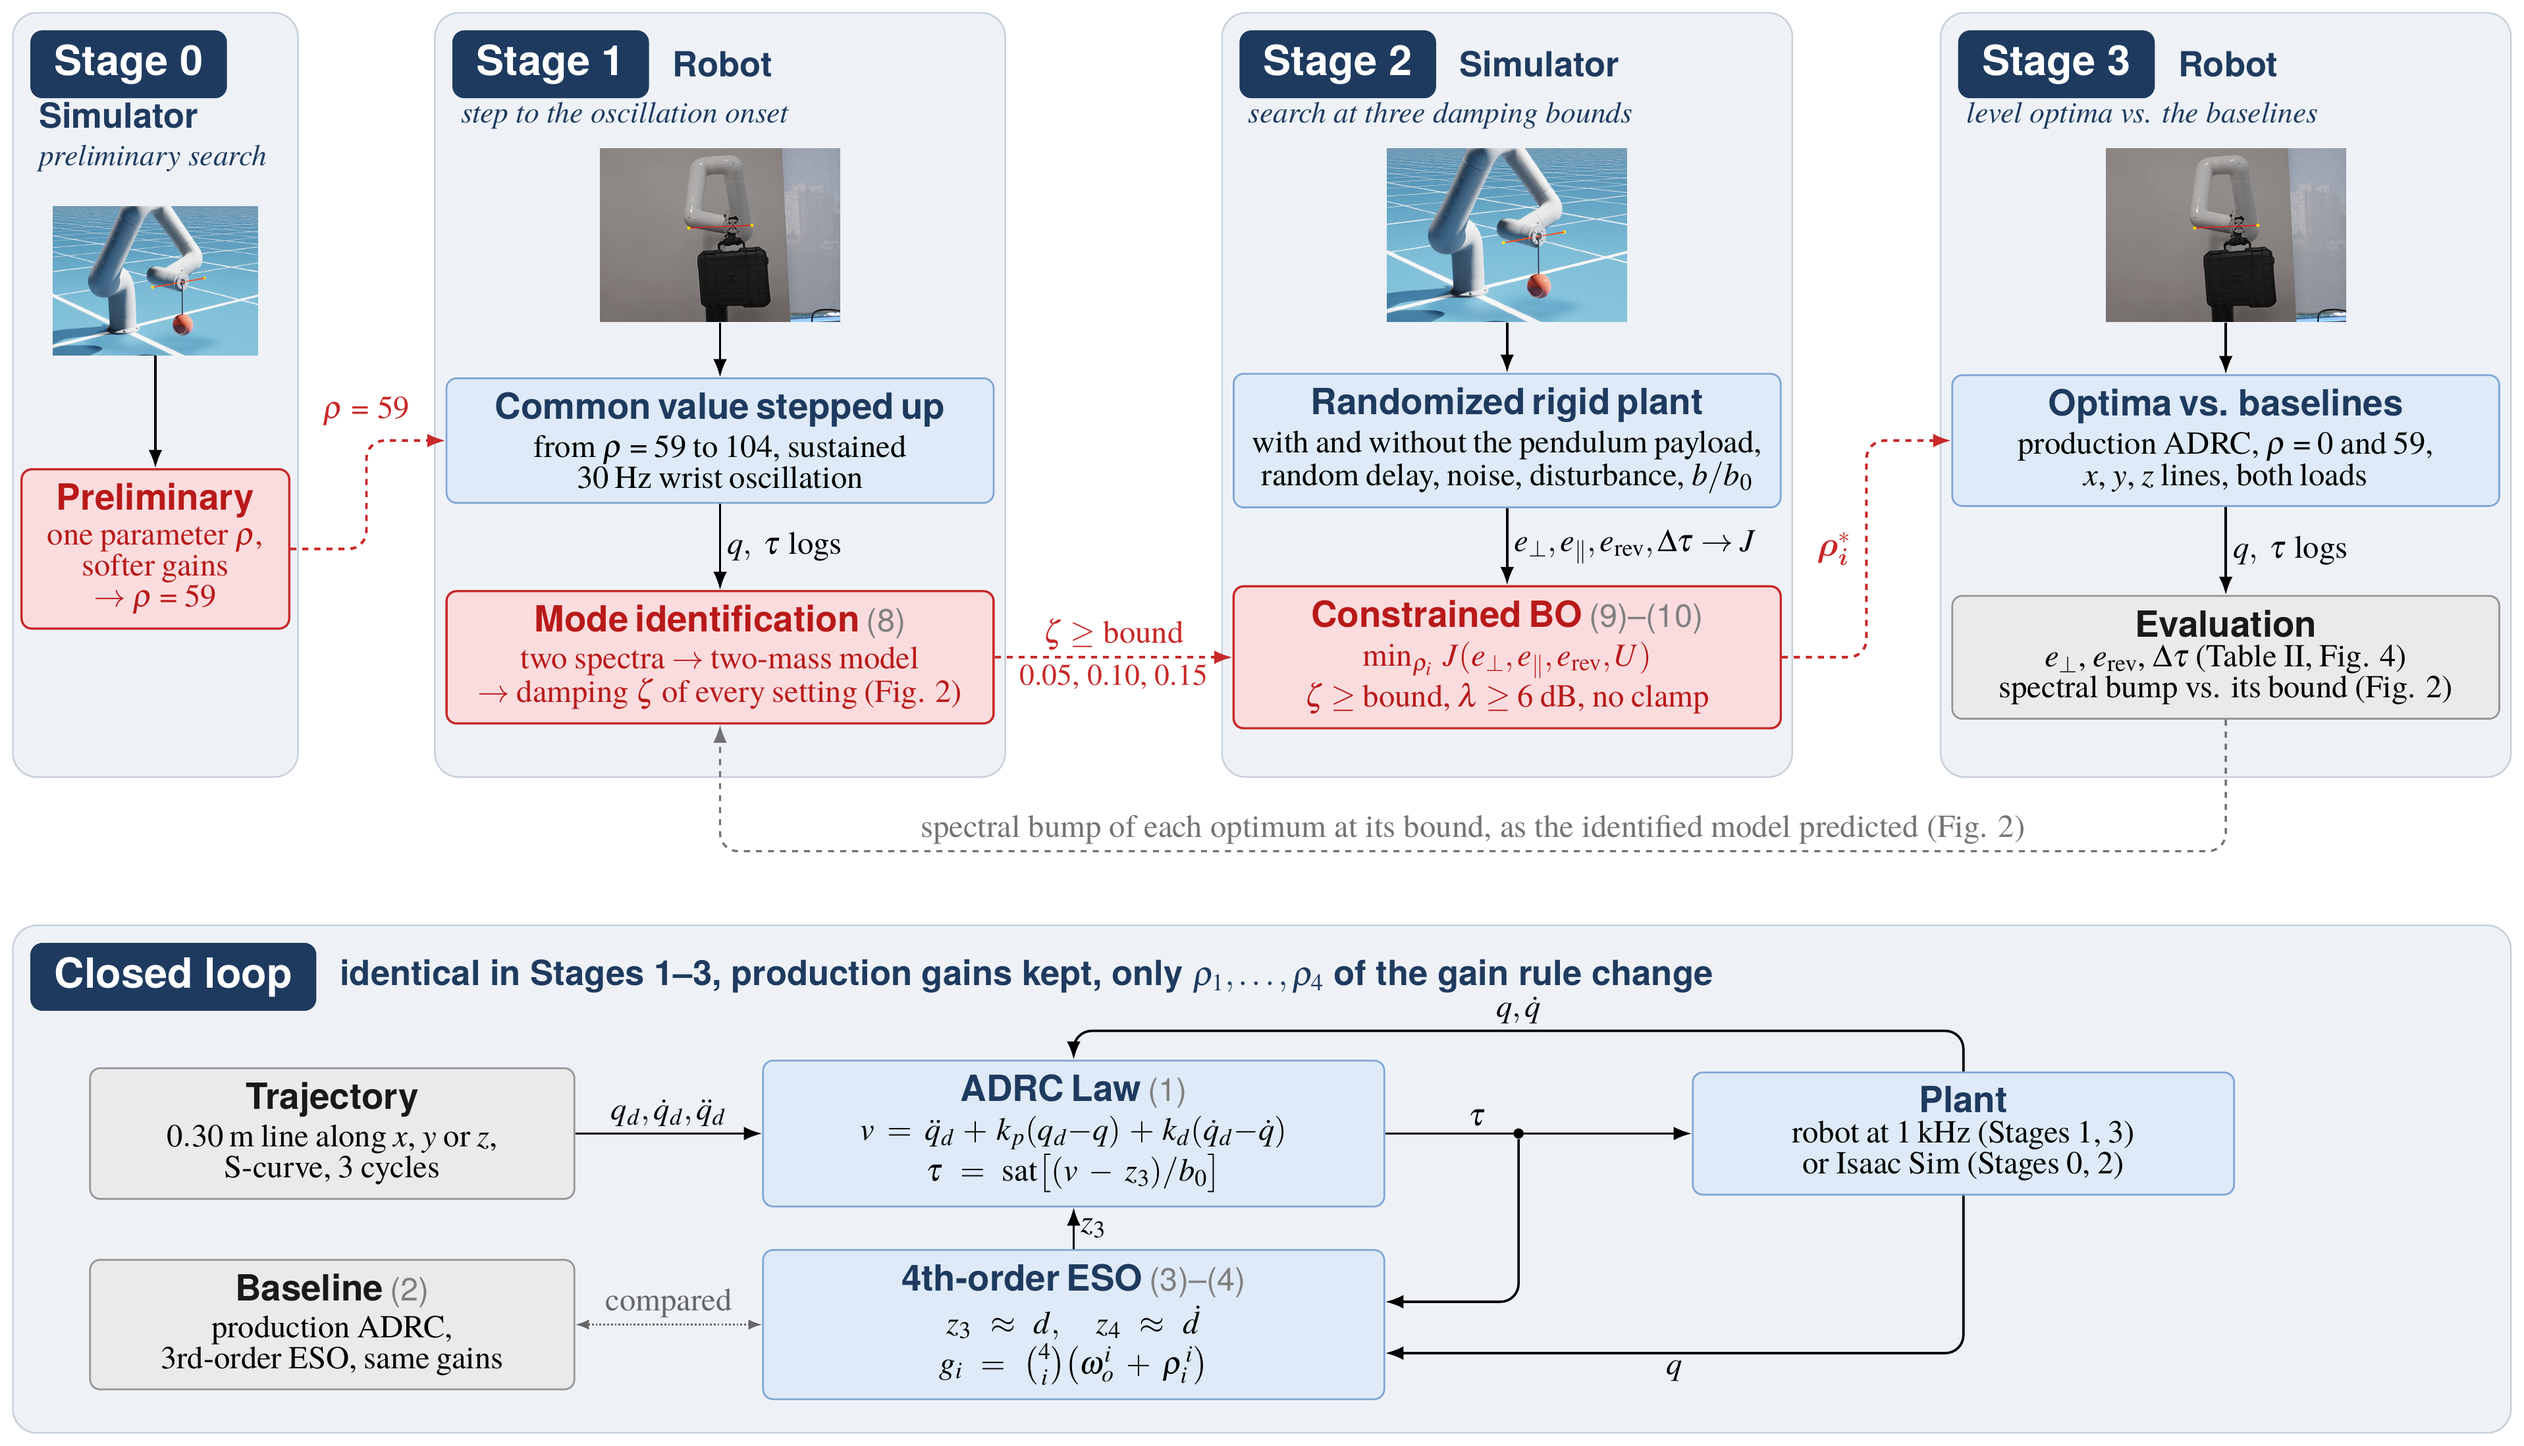
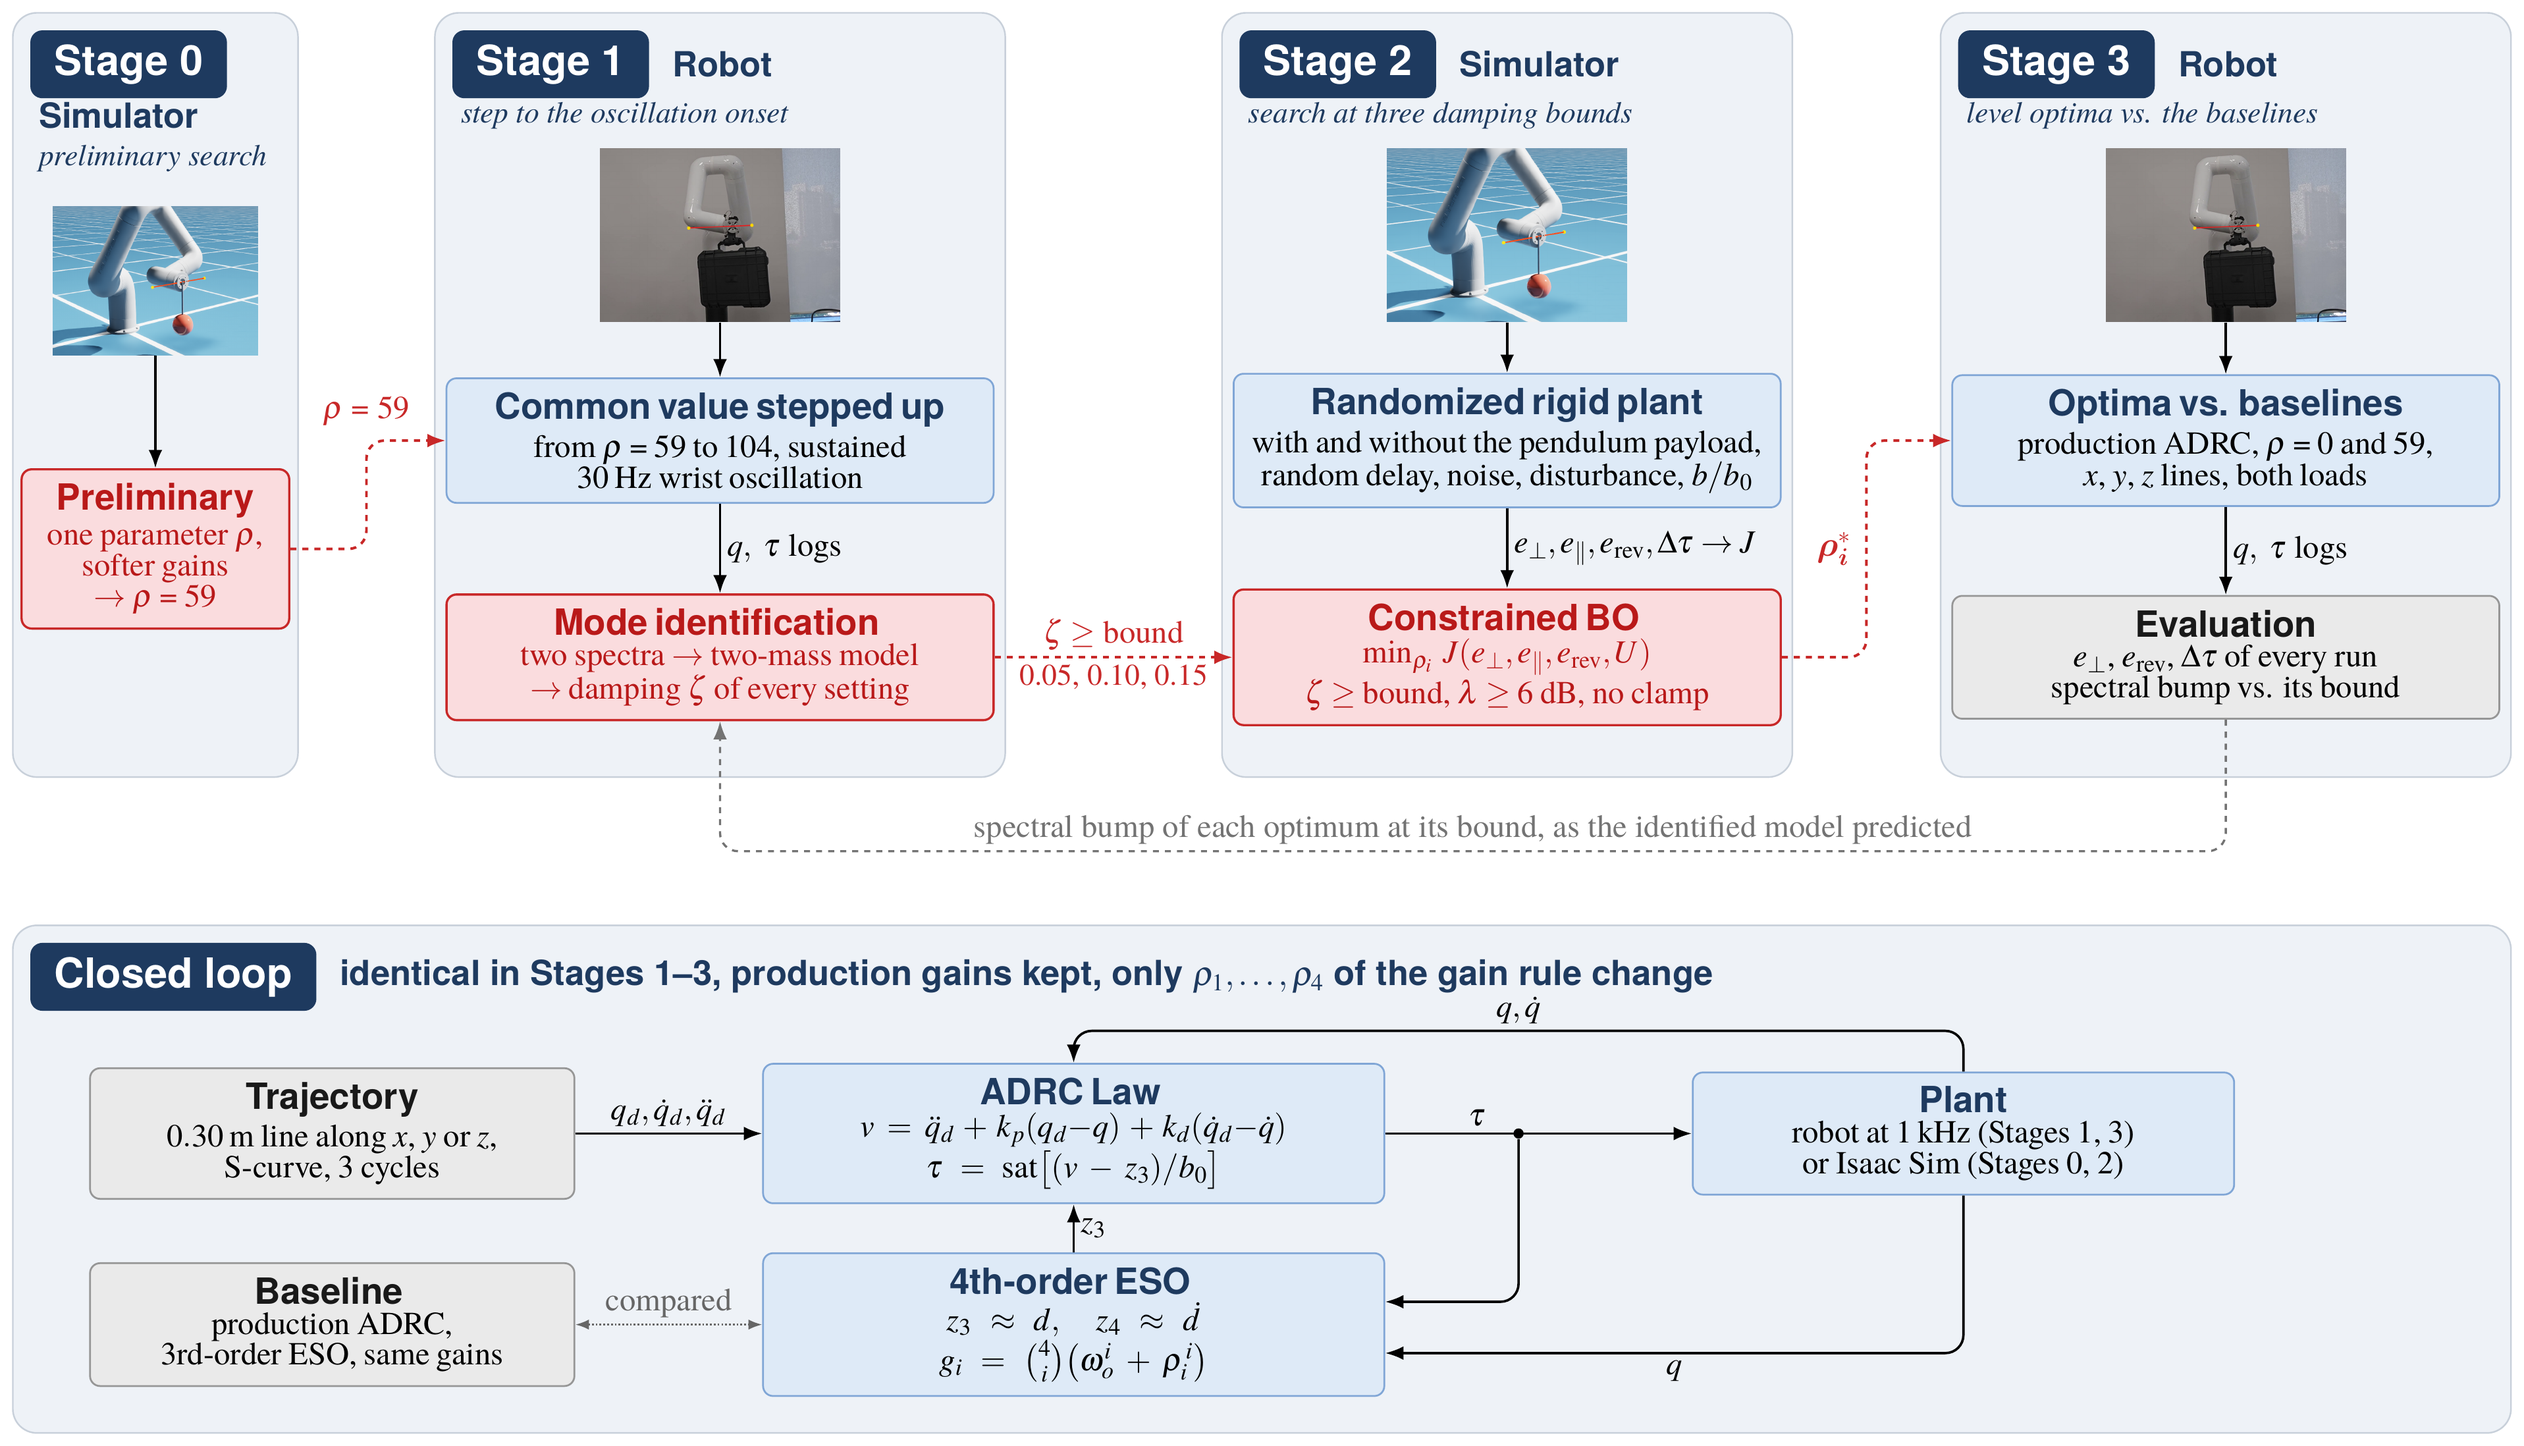
Method figure without equation numbers, the video variant of Fig. 1

diff --git a/index.html b/index.html
@@ -56,7 +56,7 @@
     <section class="page-width section-space" id="method" aria-labelledby="method-title">
       <h2 id="method-title">Method</h2>
       <figure class="method-figure">
-        <img src="assets/fig1_pipeline.png?v=20261113" alt="Study design in four stages. A preliminary simulator search gives the nominal common value, the robot steps it up to the onset of wrist oscillation and fits a two-mass loop model, constrained Bayesian optimization searches at three levels of the damping bound in the simulator, and the optimum of each level runs on the robot against the production ADRC, the binomial observer and the nominal value. The same closed loop with the production gains runs in every stage.">
+        <img src="assets/fig1_pipeline.png?v=20261113b" alt="Study design in four stages. A preliminary simulator search gives the nominal common value, the robot steps it up to the onset of wrist oscillation and fits a two-mass loop model, constrained Bayesian optimization searches at three levels of the damping bound in the simulator, and the optimum of each level runs on the robot against the production ADRC, the binomial observer and the nominal value. The same closed loop with the production gains runs in every stage.">
       </figure>
       <p class="method-overview">Simulator to robot to simulator to robot. <strong>Stage 0.</strong> A preliminary one-parameter search in the simulator with softer gains gave the nominal common value, ρ = 59. <strong>Stage 1.</strong> The common value is stepped up on the Indy7 with the production gains to the onset of sustained wrist oscillation, at ρ = 104, 1.8 times the nominal value, the wrist oscillates at 30 Hz. The joint-5 torque spectra of the nominal and the oscillating run fit a two-mass loop model of the compliant wrist, whose damping is carried to the simulator as the bound of the search. <strong>Stage 2.</strong> Constrained Bayesian optimization tunes the four parameters on a randomized simulated manipulator, with and without the 4.5 kg pendulum payload, under a torque-demand constraint, among the settings whose predicted wrist damping is at least the bound, at three levels of the bound, 0.15, 0.10 and 0.05. <strong>Stage 3.</strong> The optimum of each level runs on the robot against the production ADRC, the binomial observer and the nominal value, and their spectral bumps, in the order of their bounds as predicted, close the loop.</p>
       <div class="method-contributions">
